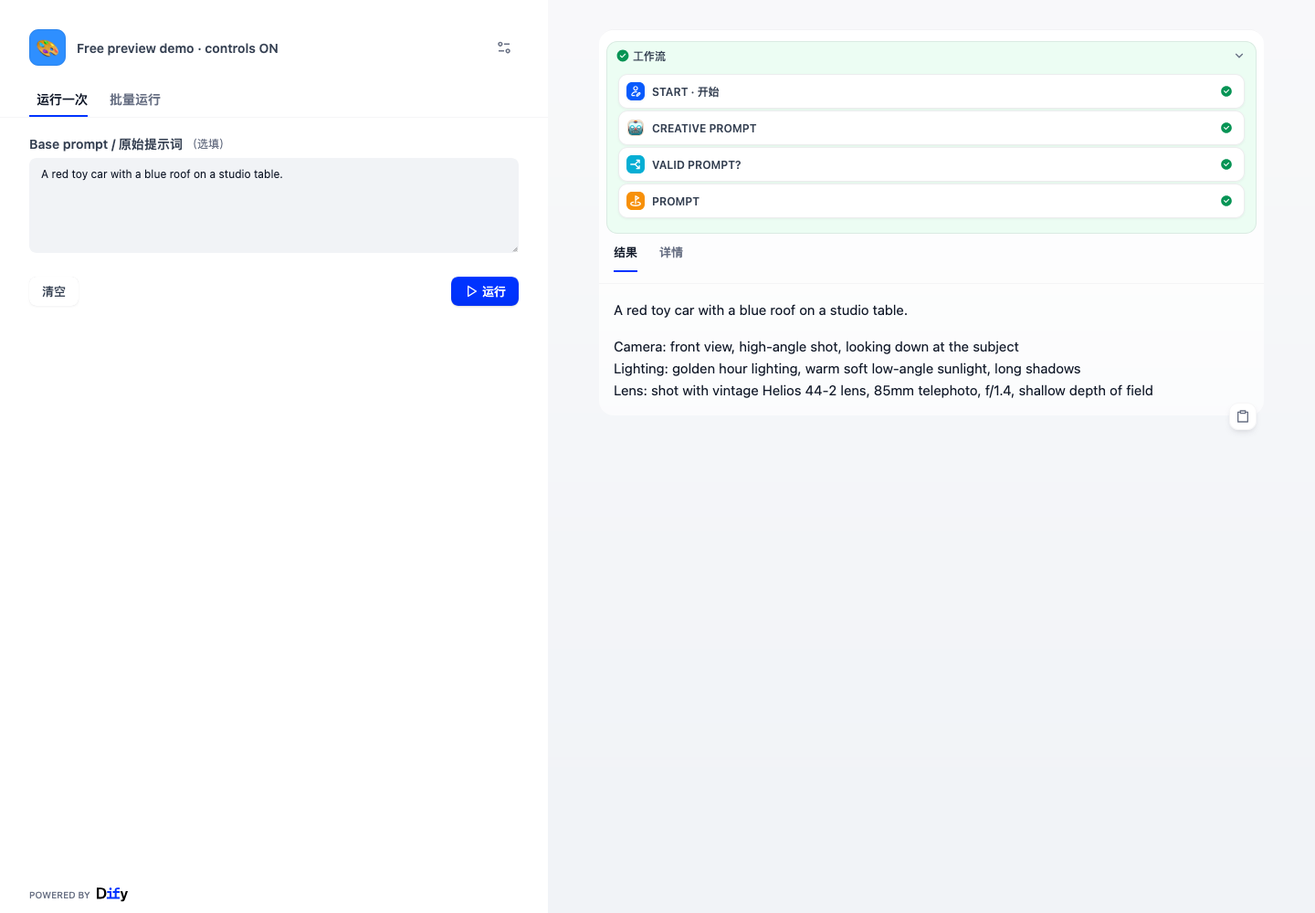
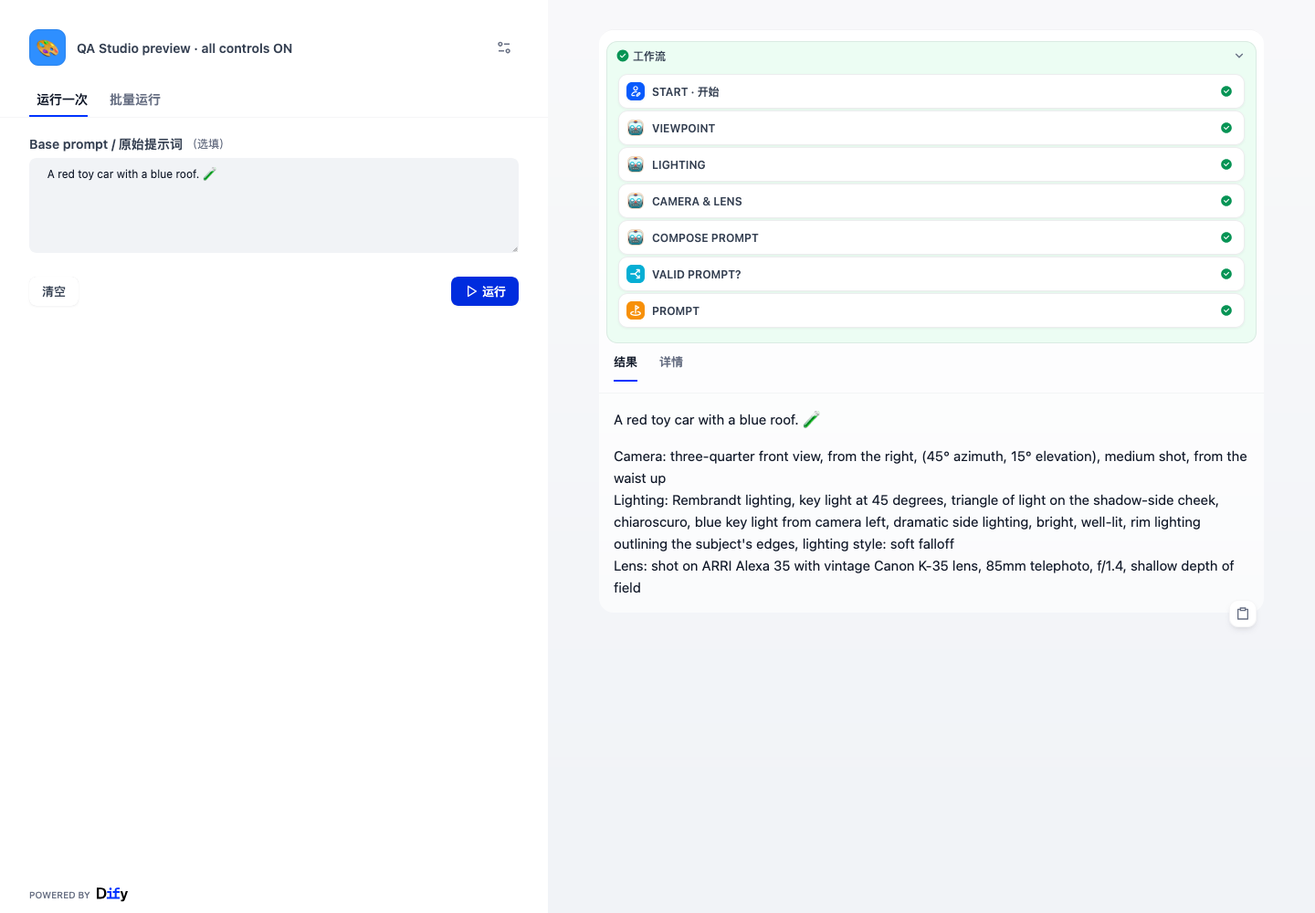
docs(studio): show native controls and verified free preview

diff --git a/README.md b/README.md
@@ -1,49 +1,55 @@
 <p align="center">
-  <img src="https://raw.githubusercontent.com/apixly-ai/dify-apixly-creative/apixly/docs/assets/cover.png" alt="Apixly Creative Controls for Dify: viewpoint, lighting and camera-look prompt preview" width="1200" />
+  <img src="https://raw.githubusercontent.com/apixly-ai/dify-apixly-creative/apixly/docs/assets/cover.png" alt="Apixly Creative Controls: viewpoint, lighting and camera-look prompt preview for Dify" width="1200" />
 </p>
 
 # Apixly Creative Controls for Dify
 
-Preview angle, lighting and camera-look instructions inside Dify's plugin runtime. This companion plugin needs no Apixly account or API key and makes no generation request. Dify workspace/runtime costs are controlled by your operator.
+Five free tools for viewpoint, lighting and camera-look prompts. Preview inside Dify's plugin runtime with **no Apixly account, API key or model request**. Dify's own runtime costs remain your operator's responsibility.
 
-**Enable a group → choose its preset or values → preview `final_prompt` → connect a generation tool only when ready.** All three groups default off. When no instruction is added, the original prompt is preserved exactly. Edit mode asks the model to retain subject and scene details not requested to change. These are AI creative instructions, rather than physical camera or light simulation.
+## Build your prompt with four small nodes
 
-## Start with four small Studio nodes
+1. Add **Viewpoint**, **Lighting**, and **Camera & Lens**. Each card contains only its own controls.
+2. Enable the groups you need, then choose presets or values. Lighting offers **Named direction / Coordinates**; blank coordinates never become zero automatically.
+3. Connect each **settings** output to its matching input on **Compose prompt**, along with your base prompt. Choose **Edit** to request preservation of existing subject and scene details.
+4. Run the free preview and read `final_prompt`. Connect a generation tool only when `success` is true.
 
-1. Add **Viewpoint**, **Lighting**, and **Camera & Lens**. Each card has only its own controls; all groups default off.
-2. Enable the groups you want. Lighting has an explicit **Named direction / Coordinates** mode; blank coordinates never become zero automatically.
-3. Connect each card's **settings** output to its matching input on **Compose prompt**, and connect your base prompt. Use **Edit** mode when preserving an existing subject.
-4. Run the free preview and inspect `final_prompt`. Connect a separate Generate/Edit tool only after `success` is true.
+All groups default **off**. With no added instruction, the base prompt stays exactly unchanged. These are AI creative instructions, rather than a physical camera or light simulation. The original **Preview creative prompt · free** tool remains available for older workflows.
 
-Dify supplies the native card shell and parameter widgets. Short camera/lens labels and eight inline lighting swatches reuse Apixly Studio's existing controls. The original **Preview creative prompt · free** tool remains available for older workflows.
+<img src="https://raw.githubusercontent.com/apixly-ai/dify-apixly-creative/apixly/docs/assets/studio-workflow-desktop.png" alt="Actual Dify editor: three compact control cards connect to Compose, a success check and a clean prompt result" width="1200" />
 
-Invalid controls return `success: false`, an `error_path` and a safe message. Keep any later paid node behind a success check. Numbers stay typed; no automatic model replacement or paid retry is introduced.
+*Actual Community 1.17.1 editor, with controls off. Dify supplies the native cards and widgets.*
 
-## See the prompt before generating
+## Familiar Studio presets
 
-<img src="https://raw.githubusercontent.com/apixly-ai/dify-apixly-creative/apixly/docs/assets/free-preview-desktop.png" alt="Actual native Dify keyless preview: viewpoint, golden-hour lighting and Helios lens instructions" width="1200" />
+Short camera/lens labels and eight inline lighting swatches reuse Apixly Studio's existing controls. Optional selectors include **Unspecified**, so a look can be removed again.
 
-This is an actual Dify Community 1.17.1 result from a deliberately enabled demo. The published running page also works at a [375px viewport](https://raw.githubusercontent.com/apixly-ai/dify-apixly-creative/apixly/docs/assets/free-preview-mobile.png). The workflow editor remains desktop-oriented. No model was called for this preview. [Asset sources and hashes](docs/assets/provenance.json).
+<img src="https://raw.githubusercontent.com/apixly-ai/dify-apixly-creative/apixly/docs/assets/lighting-swatches-desktop.png" alt="Actual native Lighting dropdown showing eight original Apixly Studio gradient swatches" width="1000" />
 
-## Optional media generation
+## See the result before generating
 
-Install [Apixly Media](https://github.com/apixly-ai/dify-apixly) separately to generate/edit images or create videos. That provider keeps its own media credential, using a manual secret API key or an authorized Apixly account connection. The creative preview workflow depends only on this free companion; creative image/edit/video workflows depend on both exact plugin packages. The tested Dify daemon retained one tool provider per plugin, so two independent packages preserve free preview and the media provider's credential boundary.
+This explicitly enabled demo produced the final prompt without a Key or generation call. View the [desktop running page](https://raw.githubusercontent.com/apixly-ai/dify-apixly-creative/apixly/docs/assets/free-preview-desktop.png), or the actual 375px result below.
 
-[Website](https://apixly.ai/) · [API console](https://platform.apixly.ai/) · [Create a key for media generation](https://platform.apixly.ai/keys) · [Models and prices](https://platform.apixly.ai/models) · [API documentation](https://apixly.ai/docs) · [Chinese documentation](readme/README_zh_Hans.md) · [Support](mailto:support@apixly.ai).
+<p align="center">
+  <img src="https://raw.githubusercontent.com/apixly-ai/dify-apixly-creative/apixly/docs/assets/free-preview-mobile.png" alt="Actual 375px Dify running-page result: only the composed prompt, without debug JSON" width="320" />
+</p>
 
 ## Ready to import
 
 | Workflow | Required plugins | Result |
 | --- | --- | --- |
-| [Free prompt preview](https://github.com/apixly-ai/dify-apixly/blob/apixly/examples/apixly-studio-preview-workflow.yml) | Creative Controls only | Prompt or a safe validation message; no generation |
+| [Free preview](https://github.com/apixly-ai/dify-apixly/blob/apixly/examples/apixly-studio-preview-workflow.yml) | Creative Controls | Prompt or safe validation message; no generation |
 | [Creative image](https://github.com/apixly-ai/dify-apixly/blob/apixly/examples/apixly-studio-image-workflow.yml) | Creative Controls + Apixly Media | One image task and files |
-| [Creative reference edit](https://github.com/apixly-ai/dify-apixly/blob/apixly/examples/apixly-studio-edit-workflow.yml) | Creative Controls + Apixly Media | One reference-edit task and files |
+| [Reference edit](https://github.com/apixly-ai/dify-apixly/blob/apixly/examples/apixly-studio-edit-workflow.yml) | Creative Controls + Apixly Media | One reference-edit task and files |
 | [Creative video](https://github.com/apixly-ai/dify-apixly/blob/apixly/examples/apixly-studio-video-workflow.yml) | Creative Controls + Apixly Media | One video task and files |
 
-The four Studio workflows are recommended for new projects. The original eight media/creative workflows remain available for compatibility. Install the exact packages referenced by the downloaded workflow. All example control groups remain off until you explicitly enable them. Lighting presets reuse Apixly Studio's existing gradient swatches; camera and lens labels use the same familiar short names. Dify provides the native node shell and parameter widgets.
+The original eight workflows remain available. Install the exact packages referenced by your downloaded DSL. Invalid controls emit a failed settings packet; Compose stops and the examples route to a safe error before any media node.
 
-## Development
+Optional generation requires the separate [Apixly Media](https://github.com/apixly-ai/dify-apixly) plugin and its own credential. The plugin is free; API usage is charged to your Apixly account.
 
-Python 3.12, `dify-plugin==0.10.2`. Install `requirements-dev.txt`, then run `.venv/bin/python -m unittest discover -s tests -v`. The canonical standard-library compiler follows Creative Controls contract 1.0.0 and is copied byte-for-byte across Python integrations. Shared fixtures cover 169 valid and 24 invalid cases, with additional Unicode and JavaScript-compatibility tests.
+## Verification and privacy
 
-Creative compilation calls no external API and adds no independent telemetry or storage. Dify may retain workflow inputs and outputs according to workspace settings. Read [PRIVACY.md](PRIVACY.md). Cloud compatibility and Marketplace approval remain separate checks.
+On Community 1.17.1, native checks covered five free tools alongside Apixly Media, 12 combined workflow imports, 53 editor panels with preserved bindings, and seven controlled-input cases in the real workflow engine. The local published preview ran on desktop and at 375px. These checks made no inference call. [QA scope and host limitations](https://github.com/apixly-ai/dify-apixly-creative/blob/apixly/docs/QA.md) · [Screenshot sources and hashes](https://github.com/apixly-ai/dify-apixly-creative/blob/apixly/docs/assets/provenance.json).
+
+Creative compilation adds no external API, independent storage or telemetry. Dify may retain workflow inputs and outputs under workspace settings. Read [PRIVACY.md](PRIVACY.md). Cloud compatibility, live account authorization and new paid media quality are separate checks.
+
+[Website](https://apixly.ai/) · [Console](https://platform.apixly.ai/) · [Media API keys](https://platform.apixly.ai/keys) · [Models and prices](https://platform.apixly.ai/models) · [API docs](https://apixly.ai/docs) · [中文](readme/README_zh_Hans.md) · [Support](mailto:support@apixly.ai).

diff --git a/readme/README_zh_Hans.md b/readme/README_zh_Hans.md
@@ -4,36 +4,52 @@
 
 # Apixly 创作指令：Dify 免费预览工具
 
-在 Dify 插件运行环境中预览角度、打光与相机镜头观感提示词。无需 Apixly 账号或 API Key，不发起图片/视频生成；Dify 自身运行资源费用由宿主管理。
+五个免费工具，组合视角、打光与相机镜头观感提示词。**无需 Apixly 账号或 API Key，不调用模型**，在 Dify 插件运行环境中预览；Dify 自身资源费用由宿主管理。
 
-**启用所需组 → 选择预设或数值 → 免费查看 final_prompt → 确认后连接独立生成工具。** 三组默认全部关闭，没有有效指令时逐字保留原提示词。编辑模式会明确要求保留未请求修改的主体与场景细节。这是 AI 创作指令，并非精确物理相机或光照模拟。
+## 用四个小节点组织提示词
 
-## 使用四个小节点
+1. 添加 **视角、打光、相机与镜头**，每张卡片只保留自己的控制项。
+2. 启用所需组，再选预设或数值。打光明确选择“命名光向 / 明确坐标”；空坐标不会自动变成 0。
+3. 将各卡的 **settings** 输出接入 **组合提示词** 对应输入，并连接原始提示词。参考图编辑选 **Edit**，请求保留未修改的主体与场景细节。
+4. 免费运行，先查看 `final_prompt`；只有 `success` 为真才连接生成工具。
 
-1. 添加 **视角、打光、相机与镜头**，每张卡片只显示自己的控制项，默认全部关闭。
-2. 启用所需组，选择预设和数值。打光明确选择“命名光向 / 明确坐标”，空坐标不会自动变成 0。
-3. 将三张卡的 **settings** 输出接入 **组合提示词** 的对应输入，并连接原始提示词；参考图编辑使用 Edit 模式。
-4. 免费运行，确认 `final_prompt`；只有 `success` 为真才进入独立生成或编辑节点。
+三组默认全部**关闭**，没有附加指令时逐字保留原提示词。这是 AI 创作指令，并非精确物理相机或光照模拟。原“预览创作提示词 · 免费”工具继续兼容已有流程。
 
-节点外壳和控件由 Dify 原生提供；简短机身/镜头名称与八张内联打光色卡复用 Apixly Studio。原“预览创作提示词 · 免费”大面板工具保留，兼容已有流程。任何控制节点失败都会传递明确失败包，后续组合不会把它当作“关闭”后继续收费。
+<img src="https://raw.githubusercontent.com/apixly-ai/dify-apixly-creative/apixly/docs/assets/studio-workflow-desktop.png" alt="真实 Dify 编辑器：三个小控制节点连接组合提示词、成功判断与清爽结果" width="1200" />
 
-<img src="https://raw.githubusercontent.com/apixly-ai/dify-apixly-creative/apixly/docs/assets/free-preview-desktop.png" alt="真实 Dify 免费提示词预览：显式启用视角、黄金时刻打光和 Helios 镜头" width="1200" />
+*真实 Community 1.17.1 编辑器，三组控制关闭；节点外壳与控件由 Dify 原生提供。*
 
-截图来自 Dify Community 1.17.1 的真实无 Key 运行，示例明确启用了三组控制，没有调用模型。已发布运行页也通过 [375px 视口检查](https://raw.githubusercontent.com/apixly-ai/dify-apixly-creative/apixly/docs/assets/free-preview-mobile.png)，工作流编辑器本身仍偏桌面布局。[素材来源与校验值](../docs/assets/provenance.json)。
+## 复用熟悉的 Studio 预设
 
-需要生成时再安装独立 [Apixly Media](https://github.com/apixly-ai/dify-apixly)，媒体工具保持独立凭据，可使用 secret API Key 或 Apixly 账号授权。免费预览 DSL 只依赖本包；创作生图、编辑、视频 DSL 依赖两个精确版本的插件。在已验收的 Dify 守护进程中，每包保留一个工具提供商，因此拆包保持免费预览与媒体凭据边界独立。
+简短机身/镜头名称与八张内联打光色卡复用 Apixly Studio。可选下拉框提供“不指定”，选过的观感也能清除。
 
-[官网](https://apixly.ai/) · [控制台](https://platform.apixly.ai/) · [API Key](https://platform.apixly.ai/keys) · [模型与价格](https://platform.apixly.ai/models) · [文档](https://apixly.ai/docs) · [English](../README.md)。支持：support@apixly.ai。
+<img src="https://raw.githubusercontent.com/apixly-ai/dify-apixly-creative/apixly/docs/assets/lighting-swatches-desktop.png" alt="真实打光下拉框：八张原有 Apixly Studio 渐变色卡" width="1000" />
 
-编译器不访问外部 API，也不增加独立存储或遥测；Dify 宿主仍可能保存工作流输入和输出。详见[隐私说明](../PRIVACY.md)。Cloud 兼容性与 Marketplace 审核是独立验收项。
+## 先看结果，再生成
+
+此演示明确启用了三组控制，未配置 Key、未调用模型。查看[桌面运行页](https://raw.githubusercontent.com/apixly-ai/dify-apixly-creative/apixly/docs/assets/free-preview-desktop.png)，或下方真实 375px 结果。
+
+<p align="center">
+  <img src="https://raw.githubusercontent.com/apixly-ai/dify-apixly-creative/apixly/docs/assets/free-preview-mobile.png" alt="真实 375px Dify 运行页：只显示组合后的提示词，没有调试 JSON" width="320" />
+</p>
 
 ## 可导入工作流
 
 | 工作流 | 插件 | 结果 |
 | --- | --- | --- |
-| [免费提示词预览](https://github.com/apixly-ai/dify-apixly/blob/apixly/examples/apixly-studio-preview-workflow.yml) | 仅本插件 | 最终提示词或安全错误；零生成 |
+| [免费预览](https://github.com/apixly-ai/dify-apixly/blob/apixly/examples/apixly-studio-preview-workflow.yml) | 仅本插件 | 最终提示词或安全错误，零生成 |
 | [创作生图](https://github.com/apixly-ai/dify-apixly/blob/apixly/examples/apixly-studio-image-workflow.yml) | 本插件 + Apixly Media | 一次图片任务与文件 |
-| [创作编辑](https://github.com/apixly-ai/dify-apixly/blob/apixly/examples/apixly-studio-edit-workflow.yml) | 本插件 + Apixly Media | 一次编辑任务与文件 |
+| [参考图编辑](https://github.com/apixly-ai/dify-apixly/blob/apixly/examples/apixly-studio-edit-workflow.yml) | 本插件 + Apixly Media | 一次编辑任务与文件 |
 | [创作视频](https://github.com/apixly-ai/dify-apixly/blob/apixly/examples/apixly-studio-video-workflow.yml) | 本插件 + Apixly Media | 一次视频任务与文件 |
 
-新项目推荐四份 Studio 工作流，原八份媒体/创作工作流继续兼容。请安装工作流所引用的精确包。示例默认关闭全部控制组，只有显式启用才添加指令。打光预设复用 Apixly Studio 已有渐变色卡；相机镜头使用相同的简短名称。节点外壳与参数控件由 Dify 原生提供。
+原八份工作流继续兼容。请安装所下载 DSL 引用的精确包。控制节点失败会输出明确失败包，组合节点随即停止；示例先进入安全错误分支，不执行媒体节点。
+
+需要生成时再安装独立 [Apixly Media](https://github.com/apixly-ai/dify-apixly)，并配置其媒体凭据。插件免费，API 按自己的 Apixly 账号实际用量计费。
+
+## 验证与隐私
+
+Community 1.17.1 原生验收覆盖五个免费工具与媒体插件共存、合计 12 份工作流导入、53 个编辑器面板的参数与绑定保存，以及真实工作流引擎中的七项受控输入用例。本地发布的免费预览已在桌面和 375px 视口实际运行，未发起推理。[QA 范围与宿主限制](https://github.com/apixly-ai/dify-apixly-creative/blob/apixly/docs/QA.md) · [截图来源与校验值](https://github.com/apixly-ai/dify-apixly-creative/blob/apixly/docs/assets/provenance.json)。
+
+编译器不访问外部 API，不增加独立存储或遥测；Dify 宿主可能按工作区设置保存输入和输出。详见[隐私说明](../PRIVACY.md)。Cloud 兼容性、真实账号授权与新增付费媒体效果属于独立验收项。
+
+[官网](https://apixly.ai/) · [控制台](https://platform.apixly.ai/) · [媒体 API Key](https://platform.apixly.ai/keys) · [模型与价格](https://platform.apixly.ai/models) · [API 文档](https://apixly.ai/docs) · [English](../README.md)。支持：support@apixly.ai。

diff --git a/docs/QA.md b/docs/QA.md
@@ -1,0 +1,57 @@
+# Community verification
+
+Observed on 2026-10-23 using official Dify Community **1.17.1**, plugin daemon **0.6.10-local**, and SDK **0.10.2**. The local QA host used unmodified official images. These results establish the tested self-hosted path; they do not establish Dify Cloud compatibility or Marketplace approval.
+
+## Tested scope
+
+| Check | Observed result |
+| --- | --- |
+| Independent free installation | All five Creative Controls tools discovered; no media plugin, account or credential needed for the first preview |
+| Two-package installation | Five free tools and five Apixly Media/catalog tools coexisted, with one provider per package |
+| Combined example library | All 12 formal workflow DSLs imported successfully |
+| Native editor persistence | All 53 tool panels in those workflows opened in Camofox; each snapshot matched the intended app/node, and saved original parameter types/values and variable bindings matched the imported graph |
+| All controls off | Whitespace, newlines and a non-BMP character in the base prompt were preserved exactly; success End exposed only `final_prompt` |
+| Native selector reset | Canon K35 was selected, then cleared to Unspecified in the actual Lens dropdown; the saved UI sentinel became an empty canonical lens, without adding a lens phrase |
+| Native lighting swatches | All eight original inline Studio icons decoded at 24×24 in the new Lighting dropdown |
+| Local Publish and running page | Actual native Publish and Run actions succeeded; stored inputs and final prompts matched the canonical compiler on desktop and at 375px |
+| Credential and inference boundary | Both providers' saved credential lists were empty after the phase; no OAuth flow or media inference was submitted |
+
+The free tools are **Viewpoint**, **Lighting**, **Camera & Lens**, **Compose prompt**, and the retained **Preview creative prompt · free** compatibility tool. The 12 workflows and 53 editor panels describe the combined free/media example library, not 12 free-only workflows or successful media generations.
+
+## Controlled inputs in the real host
+
+Seven additional local QA graph copies exercised the actual installed plugin and workflow engine. Inputs were deliberately selected for each case; the plugin runtime was not replaced by a mock:
+
+1. Three enabled groups produced the byte-exact canonical generate prompt.
+2. Edit mode produced the canonical prompt with the preservation guard applied once.
+3. Explicit lighting coordinates `0 / 0` stayed numeric in the settings packet and matched canonical neutral-direction behavior.
+4. Enabled coordinate mode with both coordinates blank produced a safe error End.
+5. Enabled black lighting in the Studio image workflow produced a failed settings packet, then an error End; its media nodes were never executed.
+6. Malformed settings JSON stopped at the error End.
+7. A forged success packet with invalid settings was revalidated and stopped at the error End.
+
+Errors named a safe field path without echoing the invalid value. A failed control could not be interpreted as an unconnected, disabled control. Adapter unit tests separately cover all five optional selector mappings; the native reset interaction specifically used Lens.
+
+One early private QA run omitted the image workflow's required model form input and stopped before any node. A later run with complete inputs demonstrated the guard. An early readback window also elapsed before a native selector autosave; a later readback confirmed the selection without selecting it again. These were retained as QA observations; neither involved a model submission or a paid retry.
+
+## Screenshots and platform limits
+
+The README PNGs are unchanged captures from this five-tool candidate. The editor overview uses the formal defaults, with groups off. The published result demo is explicitly titled **all controls ON** and uses the three small cards and Compose. It displays only the final prompt, rather than internal settings/debug JSON. [Asset provenance](assets/provenance.json) records file hashes and sources.
+
+The native running page fits a **375×900** viewport without horizontal overflow. Dify presents its mobile result in a bottom sheet. Its native Run button is 32px high, and the workflow editor remains desktop-oriented at that width. The plugin does not modify Dify's shell or widgets. These checks used a headless Firefox/Camofox viewport with humanization enabled; they do not establish iOS Safari, touch-event or soft-keyboard behavior.
+
+Live account consent/Key switching, the account-mode catalog relay, and new paid creative image/edit/video quality remain separate media-plugin qualification gates. No screenshot or free prompt result implies those checks have passed.
+
+## Source and reproducibility
+
[1 lines of base64/hex data omitted]
+
+The complete serial suites passed 29 companion tests and 107 media tests; Ruff lint, formatting and diff checks passed for both repositories before the native phase. The shared compiler fixtures include 169 valid and 24 invalid cases, with 1,000 source-language differential cases. These unit/differential checks complement the bounded native observations above.
+
+Install the development requirements in a Python 3.12 virtual environment, then run:
+
+```sh
+.venv/bin/python -m unittest discover -s tests -v
+```
+
+The owned QA tab and Docker project were stopped after verification, with the external port released and credentials read back empty. Local fixture app IDs and detailed receipts remain private for targeted cleanup. No customer content, key, signed media URL, private job/request ID or billing receipt is included in these assets. Files under `docs/**` stay outside `.difypkg`; public README images use absolute raw PNG URLs.

diff --git a/docs/assets/README.md b/docs/assets/README.md
@@ -1,7 +1,14 @@
 # Presentation assets
 
-The cover is an explicitly illustrative diagram, adapted from the existing official Apixly branding and Dify cover. It is not a screenshot. Camera, Zap and Aperture symbols reuse the Lucide icon family used by Apixly Studio; its license is included.
+The cover is an explicitly illustrative diagram adapted from the official Apixly brand and existing Dify cover. It is not a screenshot. Camera, Zap and Aperture symbols reuse the Lucide family used by Apixly Studio; its license is included.
 
-The desktop and 375px images are unchanged native Dify Community 1.17.1 preview results from an explicit demo with all three control groups enabled. The shared compiler produced the final prompt without an account, Key or generation. Downloadable workflows keep controls off by default. These result screenshots do not claim a custom Dify node shell, Dify Cloud compatibility or current split-node editor qualification.
+Four PNGs are byte-for-byte native Camofox captures from official Dify Community 1.17.1 / plugin daemon 0.6.10-local and the five-tool Creative Controls candidate:
 
-No customer uploads, credentials, signed content links, private task/request IDs or billing receipts are included. SHA256 values and source descriptions are in `provenance.json`. Files under `docs/**` are repository assets and are excluded from `.difypkg`; README references use public raw GitHub URLs.
+- `studio-workflow-desktop.png`: actual three-card → Compose → success/error workflow, with the formal defaults off.
+- `lighting-swatches-desktop.png`: actual small Lighting dropdown and eight decoded inline Studio gradient icons.
+- `free-preview-desktop.png`: actual published local running page after a free Run, with the demo explicitly labeled all controls ON.
+- `free-preview-mobile.png`: actual 375×900 result sheet after another free Run; only the final prompt is shown.
+
+No capture was cropped, composited, redrawn or retouched. Browser rendering size in Markdown does not alter the PNG bytes. The prompt was composed inside Dify without a Key, account authorization or generation call. The [QA note](../QA.md) separates real installed-host behavior from controlled test inputs and records the native 32px Run button, desktop-oriented editor and viewport-only qualification limits.
+
+No customer upload, credential, signed content link, private task/request ID or billing receipt is included. SHA256 values and public source descriptions are in `provenance.json`. Files under `docs/**` are repository assets excluded from `.difypkg`; README references use absolute public raw PNG URLs. Publishing the source assets is a release-owner step before distributing a newly documented package.
